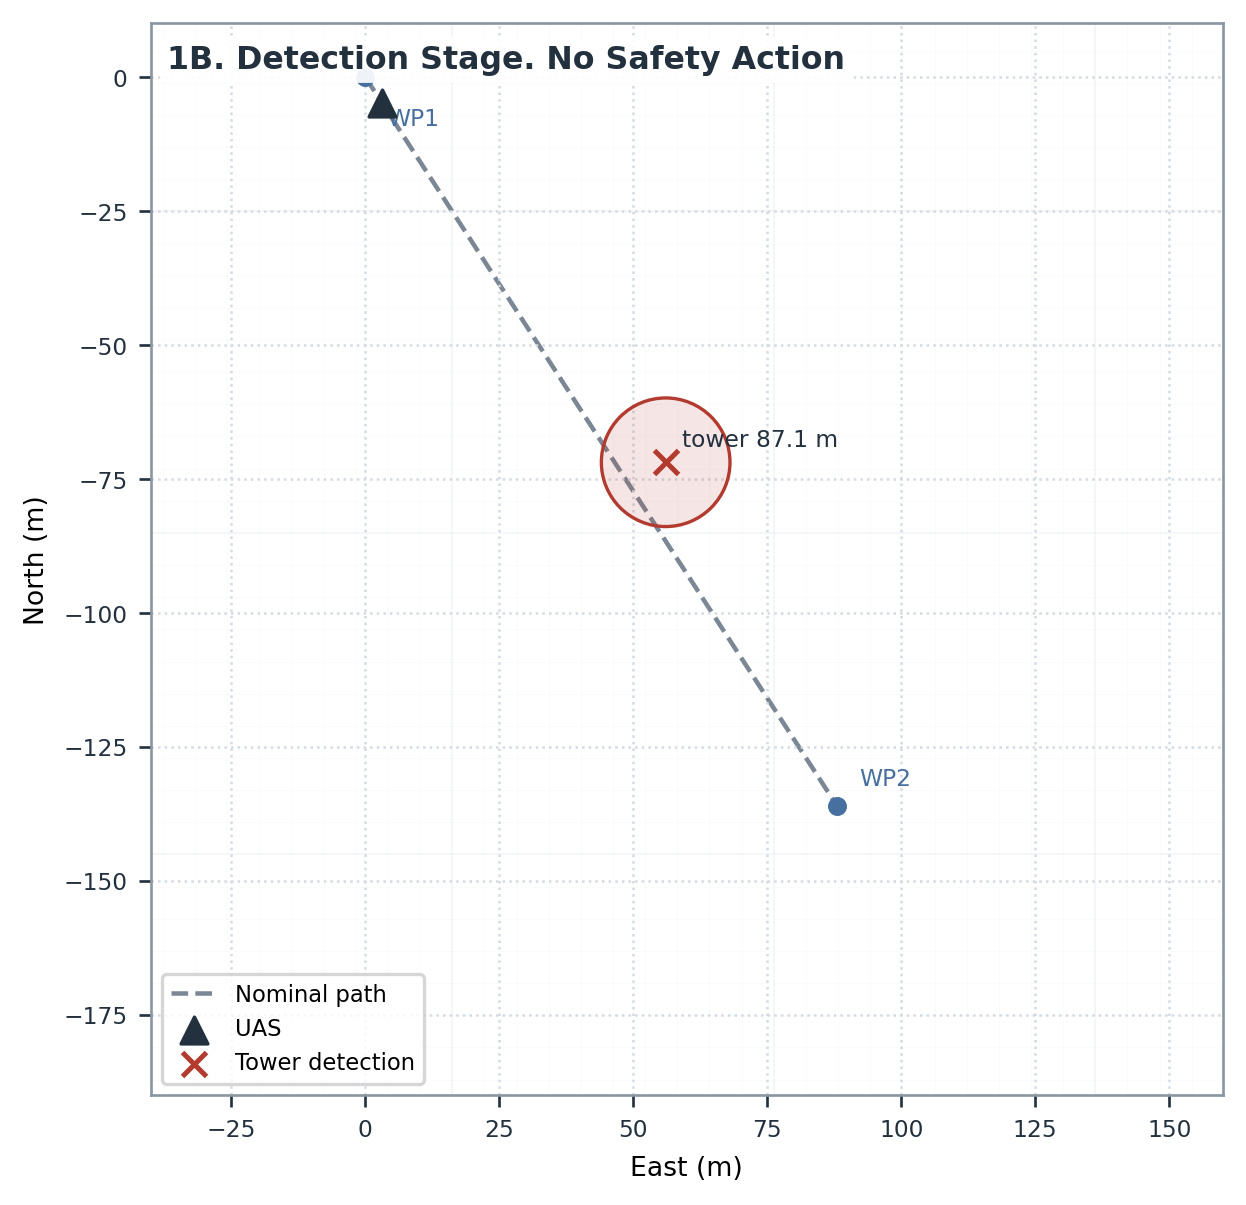
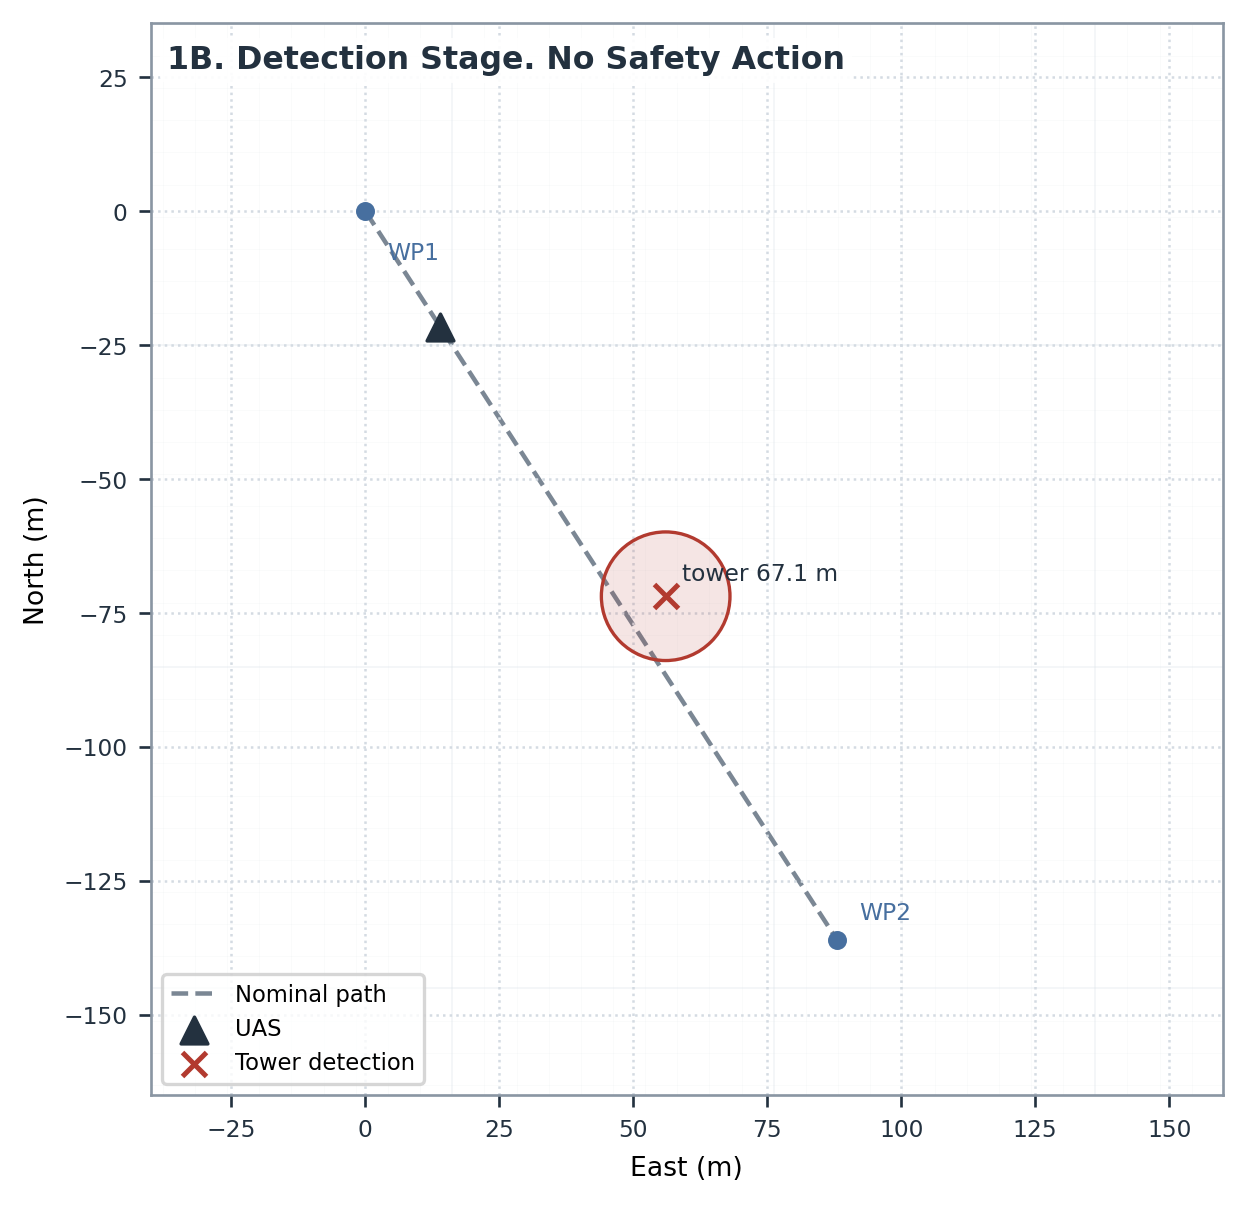
Refine figure 1 detection framing

diff --git a/figuras_paper_unreal_generadas/generate_paper_figures.py b/figuras_paper_unreal_generadas/generate_paper_figures.py
@@ -44,7 +44,7 @@ BIKE = "#256f8f"
 GRID = "#d4dbe2"
 
 FIG1_XLIM = (-40.0, 160.0)
-FIG1_YLIM = (-190.0, 10.0)
+FIG1_YLIM = (-165.0, 35.0)
 FIG1_PANEL_FIGSIZE = (5.8, 5.8)
 
 
@@ -387,7 +387,6 @@ def prepare_static_context() -> dict:
     traj = valid_traj(pd.read_csv(STATIC_RUN / "brain" / "trajectory.csv"))
     brain = parse_jsonl(STATIC_RUN / "brain" / "events.jsonl")
 
-    detect_evt = nearest_event(brain, STATIC_DETECTION_TS, "decision_snapshot", "tower")
     evasion_evt = nearest_event(brain, STATIC_EVASION_TS, "evasion_route_generated", "tower")
     completion_evt = nearest_event(brain, STATIC_COMPLETION_TS, "evasion_completed")
     no_action_events = [
@@ -398,6 +397,7 @@ def prepare_static_context() -> dict:
         and event.get("decision_reason") == "distance_above_reaction"
         and float(event.get("ts", 0.0)) < float(evasion_evt["ts"])
     ]
+    detect_evt = no_action_events[-2] if len(no_action_events) >= 2 else nearest_event(brain, STATIC_DETECTION_TS, "decision_snapshot", "tower")
     detection_detail_evt = max(no_action_events, key=lambda event: float(event["ts"])) if no_action_events else detect_evt
 
     det_row = nearest_row(traj, float(detect_evt["ts"]))

diff --git a/FIGURA_1_PAPER_UNREAL_ESPECIFICACION.md b/FIGURA_1_PAPER_UNREAL_ESPECIFICACION.md
@@ -18,11 +18,11 @@ La figura pedida es una composicion de seis paneles:
 - Los seis paneles deben llevar superpuesto el grid real del planificador: `81 x 81` celdas, `6 m` por celda, radio `40` celdas.
 - La deteccion/obstaculo de la Figura 1 debe ser unica y de tipo torre. No deben aparecer ciclistas, peloton, vacas ni multiples torres detectadas.
 - Los seis paneles deben tener el mismo aspect ratio, los mismos valores en los ejes y las mismas etiquetas de ejes. El encuadre/camara no se mueve entre paneles: la Figura 1 se lee como una secuencia temporal sobre un mismo mapa fijo.
-- Para las figuras generadas actuales, el encuadre fijo activo queda documentado como eje X `[-40, 160]` m y eje Y `[-190, 10]` m, con etiquetas `East (m)` y `North (m)`. Es un encuadre cuadrado `1:1` de 200 m x 200 m, centrado en el tramo WP1->WP2 para maximizar claridad.
+- Para las figuras generadas actuales, el encuadre fijo activo queda documentado como eje X `[-40, 160]` m y eje Y `[-165, 35]` m, con etiquetas `East (m)` y `North (m)`. Es un encuadre cuadrado `1:1` de 200 m x 200 m, centrado en el tramo WP1->WP2 para maximizar claridad, con mas aire por encima de WP1 y menos espacio muerto bajo WP2.
 - La version amplia anterior y la version cercana anterior quedan preservadas como contexto, pero no son la version activa para componer la Figura 1.
 - Los paneles `1B` y `1C` deben ser continuidad del mismo encuentro. La version corregida usa el run `pipeline/logs/paper_wp1_wp2_tower/paper_wp1_wp2_tower_p0.56_l+8.0_20260617_120539`; ambos corresponden a la misma torre `vision:101`.
 - La lectura activa queda fijada como secuencia temporal `1A -> 1B -> 1C -> 1D -> 1E -> 1F`.
-- La instruccion original agrupaba `1B/1E` como deteccion y `1C/1F` como evasion, pero eso solo funcionaba como matriz por columnas. Al exigir seis paneles cenitales con mismo encuadre, la figura se entiende mejor como secuencia; por tanto `1B` es deteccion temprana, `1C` la ultima deteccion sin accion con radios, `1D` el inicio de evasion A*, `1E` la evasion en curso y `1F` el resumen final.
+- La instruccion original agrupaba `1B/1E` como deteccion y `1C/1F` como evasion, pero eso solo funcionaba como matriz por columnas. Al exigir seis paneles cenitales con mismo encuadre, la figura se entiende mejor como secuencia; por tanto `1B` es deteccion sin accion cerca del umbral, `1C` la ultima deteccion sin accion con radios, `1D` el inicio de evasion A*, `1E` la evasion en curso y `1F` el resumen final.
 
 ## Total de figuras y paneles a generar
 
@@ -67,6 +67,9 @@ Por tanto, la nueva Figura 1 parece compactar esas etapas en una unica figura mu
 - Validacion: `accepted_types=["tower"]`, `clean_detection_count=9`, `valid_plan_count=1`, `valid_completion_count=1`, `failure_count=0`.
 - Evasion activa: comienza en progreso `0.2085` del tramo WP1->WP2 y termina en `0.9412`, antes de llegar a WP2.
 - Evento de planificacion: `planner_obs_count=1`, por tanto la torre `vision:101` si fue incluida por el planner.
+- Panel `1B`: deteccion sin accion a `67.1 m`.
+- Panel `1C`: ultima deteccion sin accion a `63.1 m`, justo antes de generar evasion al cruzar `reaction_distance_eval_m = 61 m`.
+- La torre se muestra en `1B` porque ya existe como obstaculo activo detectado (`obs_fresh=True`, `obs_count=1`). No estamos dibujando el rango fisico/sensorial de deteccion de YOLO; los circulos de `1C` son distancias de reaccion/control, no el alcance de la camara.
 
 ## Trazabilidad tecnica
 
@@ -191,7 +194,7 @@ Decision cerrada:
 
 ### 1C - Grafica: deteccion sin accion
 
-Debe mostrar el mismo instante que `1B`, pero con mas informacion grafica:
+Debe mostrar un instante posterior a `1B`, todavia sin accion, pero mas cerca del umbral de planificacion:
 
 - mission/global path;
 - UAS;
@@ -308,7 +311,7 @@ Respuestas ya cerradas:
 
 1. Figura 1 usa obstaculo estatico: torre.
 2. Figura 2 queda para obstaculo en movimiento: ciclista o peloton.
-3. `1B` y `1C` muestran el obstaculo dentro del `Reaction Range`, pero fuera de la `Base reaction distance`.
+3. `1B` y `1C` muestran el obstaculo ya detectado, pero todavia fuera de `reaction_distance_eval_m`, por eso no hay accion. Si `Reaction Range` se usa en el paper como rango sensorial/de deteccion, la torre esta dentro porque `obs_fresh=True`; si se usa como `reaction_distance_eval_m`, entonces debe estar fuera para que el estado "No Safety Action" sea correcto.
 4. El `81 x 81 occupancy grid` basta en la representacion grafica `1F`; no hace falta dentro de Unreal.
 5. El resumen final del caso estatico de la torre queda como `1F` para que la lectura `1A -> 1F` sea temporal. La etiqueta original `1D` solo se conserva como antecedente historico de la instruccion recibida.
 

diff --git a/figuras_paper_unreal_generadas/README.md b/figuras_paper_unreal_generadas/README.md
@@ -18,9 +18,10 @@ Esta carpeta contiene las figuras compuestas pedidas en la conversacion.
 - El multipanel historico se generaba en `generate_paper_assets.py`, funcion `build_six_stage_sequence_figure(...)`.
 - La Figura 1 generada aqui usa un episodio continuo WP1->WP2 con una unica torre del run `pipeline/logs/paper_wp1_wp2_tower/paper_wp1_wp2_tower_p0.56_l+8.0_20260617_120539`.
 - La torre usada esta en `lat=42.22904865463611`, `lon=-1.234404232738992`, progreso `0.56` del tramo WP1->WP2 y desplazamiento lateral `+8 m`.
-- Orden activo de lectura: `1A` navegacion nominal, `1B` deteccion temprana sin accion, `1C` ultima deteccion sin accion con radios, `1D` inicio de evasion A*, `1E` evasion en curso, `1F` resumen final de ruta.
+- Orden activo de lectura: `1A` navegacion nominal, `1B` deteccion sin accion cerca del umbral, `1C` ultima deteccion sin accion con radios, `1D` inicio de evasion A*, `1E` evasion en curso, `1F` resumen final de ruta.
 - Decision actual: los seis paneles de Figura 1 deben ser cenitales/top-down, con el grid real `81 x 81` superpuesto y deteccion unica de torre. `1B` y `1C` ya no deben ser capturas oblicuas Unreal/HUD.
-- Los seis paneles usan el mismo encuadre fijo activo: eje X `[-40, 160]` m y eje Y `[-190, 10]` m, con las mismas etiquetas `East (m)` y `North (m)`. Es un encuadre cuadrado `1:1` de 200 m x 200 m centrado en el tramo WP1->WP2.
+- Los seis paneles usan el mismo encuadre fijo activo: eje X `[-40, 160]` m y eje Y `[-165, 35]` m, con las mismas etiquetas `East (m)` y `North (m)`. Es un encuadre cuadrado `1:1` de 200 m x 200 m centrado en el tramo WP1->WP2, con mas aire por encima de WP1 y menos espacio muerto bajo WP2.
+- `1B` usa una deteccion sin accion a `67.1 m`; `1C` usa la ultima deteccion sin accion a `63.1 m`, justo antes de generar la evasion al cruzar `reaction_distance_eval_m=61 m`.
 - Validacion del run: `accepted_types=["tower"]`, `clean_detection_count=9`, `valid_plan_count=1`, `valid_completion_count=1`, `failure_count=0`, evasion activa de progreso `0.2085` a `0.9412` antes de WP2.
 - La version amplia anterior se conserva como contexto en `figure_1_panels_wide_context/`, `figure_1_static_tower_multipanel_wide_context.png` y `figure_1_panels_contact_sheet_wide_context.png`.
 - La version cercana anterior se conserva como contexto en `figure_1_panels_close_context/`, `figure_1_static_tower_multipanel_close_context.png` y `figure_1_panels_contact_sheet_close_context.png`.
